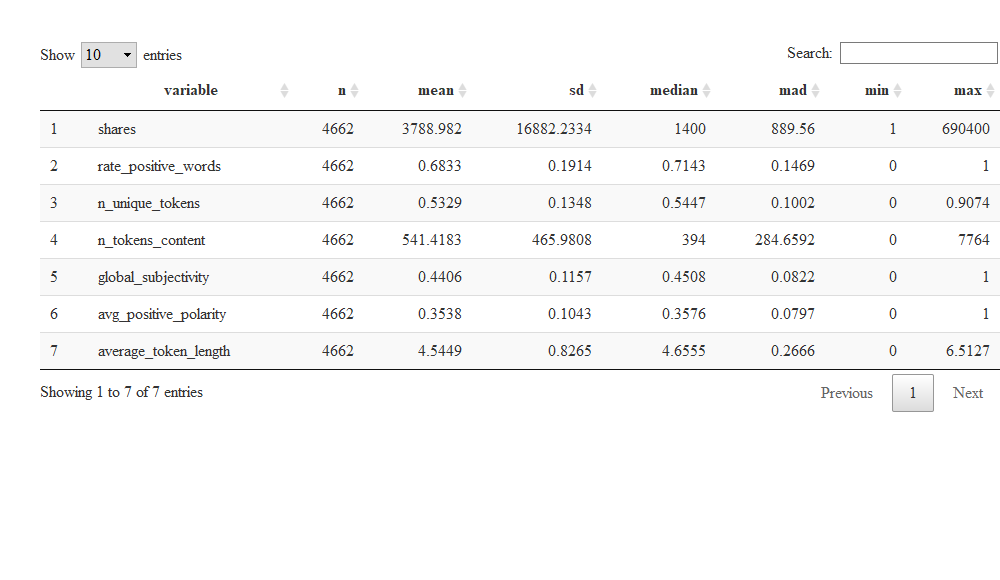
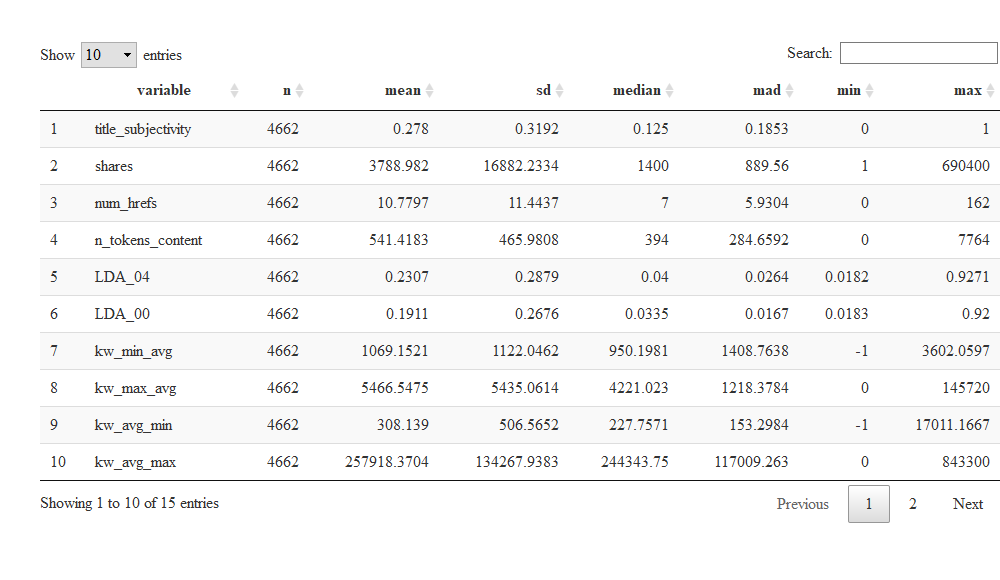
update on progress: final selection of variables for analysis continued work on Weekday.rmd updates to readme.md

diff --git a/Weekday.md b/Weekday.md
@@ -33,34 +33,59 @@ Out of the 61 Attributes available in this dataset for analysis, in
 order not to overfit the model with too many dependent variables (which
 could yield not enough generalization of the dataset to make
 predictions, especially valid ones), I have chosen to use the following
-7 variables, 6 which are predictive, and 1, the shares variable, which
-is outcome variable. The weekday variables are also included, but only
-for subsetting the data by the day of the week. Once we have the
-“Monday” dataset, for instance, all of these `weekday_is_*`
+14 predictor variables and of course the 1 outcome variable we are
+trying to predict, `shares`. The weekday variables are also included,
+but only for subsetting the data by the day of the week. Once we have
+the “Monday” dataset, for instance, all of these `weekday_is_*`
 variables will be removed from the dataset. The variables selected are
 below, and the reasoning behind their selection follows.
 
 Attribute Information:  
-1\. n\_tokens\_content: Number of words in the content  
-2\. n\_unique\_tokens: Rate of unique words in the content  
-3\. average\_token\_length: Average length of the words in the content  
-4\. global\_subjectivity: Text subjectivity  
-5\. rate\_positive\_words: Rate of positive words among non-neutral
-tokens  
-6\. avg\_positive\_polarity: Avg. polarity of positive words  
-7\. shares: Number of shares (target outcome trying to predict)  
-8\. weekday\_is\_variables: Was the article published on a
+1\. `n_tokens_content`: Number of words in the content  
+2\. `num_hrefs`: Number of links  
+3\. `average_token_length`: Average length of the words in the content  
+4\. `kw_avg_min`: Worst keyword (avg. shares)  
+5\. `kw_avg_max`: Best keyword (avg. shares)  
+6\. `kw_min_avg`: Avg. keyword (min. shares)  
+7\. `kw_max_avg`: Avg. keyword (max. shares)  
+8\. `kw_avg_avg`: Avg. keyword (avg. shares)  
+9\. `LDA_00`: Closeness to LDA topic 0  
+10\. `LDA_04`: Closeness to LDA topic 4  
+11\. `global_subjectivity`: Text subjectivity  
+12\. `global_sentiment_polarity`: Text sentiment polarity  
+13\. `title_subjectivity`: Title subjectivity  
+14\. `abs_title_subjectivity`: Absolute subjectivity level  
+15\. `shares`: Number of shares (target outcome trying to predict)  
+16\. `weekday_is_variables`: Was the article published on a
 \_\_\_\_\_\_\_?
 
-  - weekday\_is\_monday: Was the article published on a Monday?  
-  - weekday\_is\_tuesday: Was the article published on a Tuesday?  
-  - weekday\_is\_wednesday: Was the article published on a Wednesday?  
-  - weekday\_is\_thursday: Was the article published on a Thursday?  
-  - weekday\_is\_friday: Was the article published on a Friday?  
-  - weekday\_is\_saturday: Was the article published on a Saturday?  
-  - weekday\_is\_sunday: Was the article published on a Sunday?
+  - `weekday_is_monday`: Was the article published on a Monday?  
+  - `weekday_is_tuesday`: Was the article published on a Tuesday?  
+  - `weekday_is_wednesday`: Was the article published on a Wednesday?  
+  - `weekday_is_thursday`: Was the article published on a Thursday?  
+  - `weekday_is_friday`: Was the article published on a Friday?  
+  - `weekday_is_saturday`: Was the article published on a Saturday?  
+  - `weekday_is_sunday`: Was the article published on a Sunday?
 
-<!-- end list -->
+For this dataset of nearly 60 predictor variables, a dataset for
+analysis that contains approximately 25% of them seems to feel right,
+since too many predictor variables can cause overfitting. This subset of
+variables is a sampling across the set of variables I thought might have
+an impact. For example, the number of words of content
+(`n_tokens_content`), and the number of links (`num_hrefs`) seemed
+reasonable that they might play a role in predicting shares. The `kw_`
+variables also seem like they should be good predictors. I chose the
+first and last `LDA` variables. The global ratings also seemed like they
+would have an impact on predicting the shares so I chose
+`global_subjectivity` and `global_sentiment_polarity`. Then finally, to
+round out the dataset of predictors I chose the title subjectivity and
+absolutely subjectivity level, since often a title will have the largest
+impact - catchy or provoking titles are clickbait for a reason\!
+
+## Data
+
+Now on to the data\! First we will load in all of the necessary packages
+from R.
 
 ``` r
 #load necessary libraries
@@ -80,7 +105,9 @@ library(DT)
 library(summarytools)
 ```
 
-## Data
+Next we will read in the entire dataset. Then we will use the `select()`
+function from the `dplyr` package to select only the variables mentioned
+above for the analysis.
 
 ``` r
 # Read-in entire dataset
@@ -88,11 +115,15 @@ path <- "C:/Users/Zachary Vaskalis/Dropbox/ST558/OnlineNewsPopularity.csv"
 weekdayDataRAW <- read_csv(path)
 
 # Select only variables I am choosing to use for the analysis.
-weekdayData1 <- select(weekdayDataRAW, n_tokens_content, n_unique_tokens,
-                       average_token_length, weekday_is_monday, weekday_is_tuesday,
+weekdayData1 <- select(weekdayDataRAW, n_tokens_content, num_hrefs,
+                       average_token_length, kw_avg_min, kw_avg_max,
+                       kw_min_avg ,kw_max_avg, kw_avg_avg,
+                       LDA_00, LDA_04,global_subjectivity,
+                       global_sentiment_polarity, title_subjectivity,
+                       abs_title_subjectivity, shares,
+                       weekday_is_monday, weekday_is_tuesday,
                        weekday_is_wednesday, weekday_is_thursday, weekday_is_friday,
-                       weekday_is_saturday, weekday_is_sunday, global_subjectivity,
-                       rate_positive_words, avg_positive_polarity, shares)
+                       weekday_is_saturday, weekday_is_sunday,)
 
 # Select only the specific day of the week I am interested in.
 weekdayData2 <- filter(weekdayData1, weekday_is_monday == 1)
@@ -111,7 +142,7 @@ initial_seed <- as.integer(initial_seed)
 print (initial_seed)
 ```
 
-    ## [1] 1593785388
+    ## [1] 1593791903
 
 ``` r
 seed <- initial_seed %% 100000
@@ -183,23 +214,31 @@ summary(mlr1)
     ## 
     ## Residuals:
     ##    Min     1Q Median     3Q    Max 
-    ##  -8224  -3031  -2053   -556 686348 
+    ## -26289  -2966  -1540      8 680009 
     ## 
     ## Coefficients:
-    ##                         Estimate Std. Error t value Pr(>|t|)    
-    ## (Intercept)            4778.3406  1406.5477   3.397 0.000686 ***
-    ## n_tokens_content          0.3399     0.7685   0.442 0.658245    
-    ## n_unique_tokens        3762.6855  3483.3409   1.080 0.280112    
-    ## average_token_length  -1612.1299   545.6755  -2.954 0.003149 ** 
-    ## global_subjectivity   10182.0603  2983.9765   3.412 0.000650 ***
-    ## rate_positive_words   -1473.9988  1597.8123  -0.923 0.356310    
-    ## avg_positive_polarity  1892.9030  3094.9280   0.612 0.540823    
+    ##                             Estimate Std. Error t value Pr(>|t|)    
+    ## (Intercept)               -2.512e+03  1.937e+03  -1.297  0.19477    
+    ## n_tokens_content          -2.390e-01  6.081e-01  -0.393  0.69433    
+    ## num_hrefs                  1.540e+01  2.541e+01   0.606  0.54458    
+    ## average_token_length      -7.792e+02  3.918e+02  -1.989  0.04679 *  
+    ## kw_avg_min                 1.026e+00  5.726e-01   1.791  0.07331 .  
+    ## kw_avg_max                -2.993e-03  2.442e-03  -1.226  0.22040    
+    ## kw_min_avg                -3.824e-01  2.910e-01  -1.314  0.18892    
+    ## kw_max_avg                -2.770e-01  9.114e-02  -3.040  0.00238 ** 
+    ## kw_avg_avg                 2.618e+00  4.935e-01   5.305 1.18e-07 ***
+    ## LDA_00                     2.359e+03  9.914e+02   2.379  0.01739 *  
+    ## LDA_04                    -9.756e+01  9.165e+02  -0.106  0.91523    
+    ## global_subjectivity        8.965e+03  2.833e+03   3.164  0.00156 ** 
+    ## global_sentiment_polarity -4.809e+03  2.737e+03  -1.757  0.07900 .  
+    ## title_subjectivity        -2.429e+02  9.099e+02  -0.267  0.78952    
+    ## abs_title_subjectivity     1.319e+03  1.502e+03   0.878  0.37997    
     ## ---
     ## Signif. codes:  0 '***' 0.001 '**' 0.01 '*' 0.05 '.' 0.1 ' ' 1
     ## 
-    ## Residual standard error: 16850 on 4655 degrees of freedom
-    ## Multiple R-squared:  0.004685,   Adjusted R-squared:  0.003402 
-    ## F-statistic: 3.652 on 6 and 4655 DF,  p-value: 0.001279
+    ## Residual standard error: 16740 on 4647 degrees of freedom
+    ## Multiple R-squared:  0.02022,    Adjusted R-squared:  0.01727 
+    ## F-statistic:  6.85 on 14 and 4647 DF,  p-value: 4.19e-14
 
 ``` r
 trCtrl <- trainControl(method = "cv", number = 10)
@@ -210,15 +249,15 @@ mlr2
     ## Linear Regression 
     ## 
     ## 4662 samples
-    ##    6 predictor
+    ##   14 predictor
     ## 
     ## No pre-processing
     ## Resampling: Cross-Validated (10 fold) 
     ## Summary of sample sizes: 4195, 4196, 4195, 4197, 4195, 4196, ... 
     ## Resampling results:
     ## 
-    ##   RMSE      Rsquared     MAE     
-    ##   14225.07  0.005721379  3951.839
+    ##   RMSE      Rsquared    MAE     
+    ##   14206.79  0.02379214  3972.618
     ## 
     ## Tuning parameter 'intercept' was held constant at a value of TRUE
 

diff --git a/README.md b/README.md
@@ -7,8 +7,7 @@ Zack Vaskalis
   - [Project Objectives](#project-objectives)
   - [Data](#data)
       - [Information on Attributes for
-        Analysis](#information-on-attributes-for-analysis)
-  - [Goal of Project](#goal-of-project)
+        Analysis:](#information-on-attributes-for-analysis)
   - [Reports](#reports)
 
 ## Introduction
@@ -35,32 +34,61 @@ are predictive attributes, 2 non-predictive variables(the source url and
 the time between article publication and dataset acquisition), and
 finally the goal field for prediction: the number of shares.
 
-### Information on Attributes for Analysis
+### Information on Attributes for Analysis:
 
 Out of the 61 Attributes available in this dataset for analysis, in
 order not to overfit the model with too many dependent variables (which
 could yield not enough generalization of the dataset to make
 predictions, especially valid ones), I have chosen to use the following
-7 variables, 6 which are predictive, and 1, the shares variable, which
-is outcome variable. The weekday variables are also included, but only
-for subsetting the data by the day of the week. Once we have the
-“Monday” dataset, for instance, all of these `weekday_is_*`
+14 predictor variables and of course the 1 outcome variable we are
+trying to predict, `shares`. The weekday variables are also included,
+but only for subsetting the data by the day of the week. Once we have
+the “Monday” dataset, for instance, all of these `weekday_is_*`
 variables will be removed from the dataset. The variables selected are
-below.
+below, and the reasoning behind their selection follows.
 
 Attribute Information:  
-1\. n\_tokens\_content: Number of words in the content  
-2\. n\_unique\_tokens: Rate of unique words in the content  
-3\. average\_token\_length: Average length of the words in the content  
-4\. global\_subjectivity: Text subjectivity  
-5\. rate\_positive\_words: Rate of positive words among non-neutral
-tokens  
-6\. avg\_positive\_polarity: Avg. polarity of positive words  
-7\. shares: Number of shares (target outcome trying to predict)  
-8\. weekday\_is\_variables: Was the article published on a
+1\. `n_tokens_content`: Number of words in the content  
+2\. `num_hrefs`: Number of links  
+3\. `average_token_length`: Average length of the words in the content  
+4\. `kw_avg_min`: Worst keyword (avg. shares)  
+5\. `kw_avg_max`: Best keyword (avg. shares)  
+6\. `kw_min_avg`: Avg. keyword (min. shares)  
+7\. `kw_max_avg`: Avg. keyword (max. shares)  
+8\. `kw_avg_avg`: Avg. keyword (avg. shares)  
+9\. `LDA_00`: Closeness to LDA topic 0  
+10\. `LDA_04`: Closeness to LDA topic 4  
+11\. `global_subjectivity`: Text subjectivity  
+12\. `global_sentiment_polarity`: Text sentiment polarity  
+13\. `title_subjectivity`: Title subjectivity  
+14\. `abs_title_subjectivity`: Absolute subjectivity level  
+15\. `shares`: Number of shares (target outcome trying to predict)  
+16\. `weekday_is_variables`: Was the article published on a
 \_\_\_\_\_\_\_?
 
-## Goal of Project
+  - `weekday_is_monday`: Was the article published on a Monday?  
+  - `weekday_is_tuesday`: Was the article published on a Tuesday?  
+  - `weekday_is_wednesday`: Was the article published on a Wednesday?  
+  - `weekday_is_thursday`: Was the article published on a Thursday?  
+  - `weekday_is_friday`: Was the article published on a Friday?  
+  - `weekday_is_saturday`: Was the article published on a Saturday?  
+  - `weekday_is_sunday`: Was the article published on a Sunday?
+
+For this dataset of nearly 60 predictor variables, a dataset for
+analysis that contains approximately 25% of them seems to feel right,
+since too many predictor variables can cause overfitting. This subset of
+variables is a sampling across the set of variables I thought might have
+an impact. For example, the number of words of content
+(`n_tokens_content`), and the number of links (`num_hrefs`) seemed
+reasonable that they might play a role in predicting shares. The `kw_`
+variables also seem like they should be good predictors. I chose the
+first and last `LDA` variables. The global ratings also seemed like they
+would have an impact on predicting the shares so I chose
+`global_subjectivity` and `global_sentiment_polarity`. Then finally, to
+round out the dataset of predictors I chose the title subjectivity and
+absolutely subjectivity level, since often a title will have the largest
+impact - catchy or provoking titles are clickbait for a reason\! \#\#
+Goal of Project
 
 The goal of this project is to create 2 models (one linear and one
 non-linear) for predicting the shares variable. In addition to this
